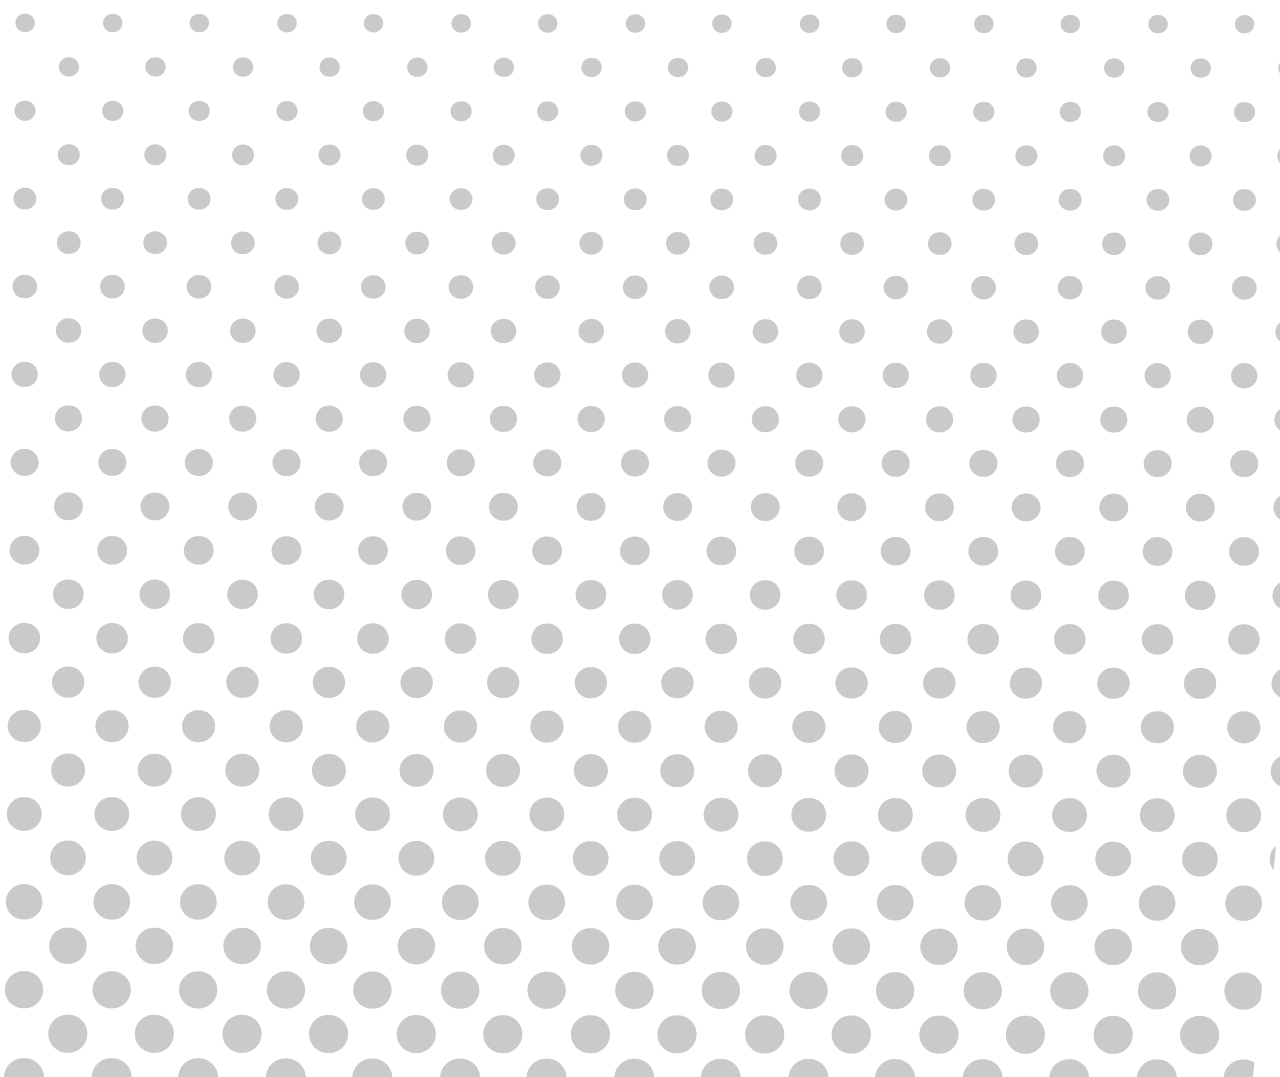
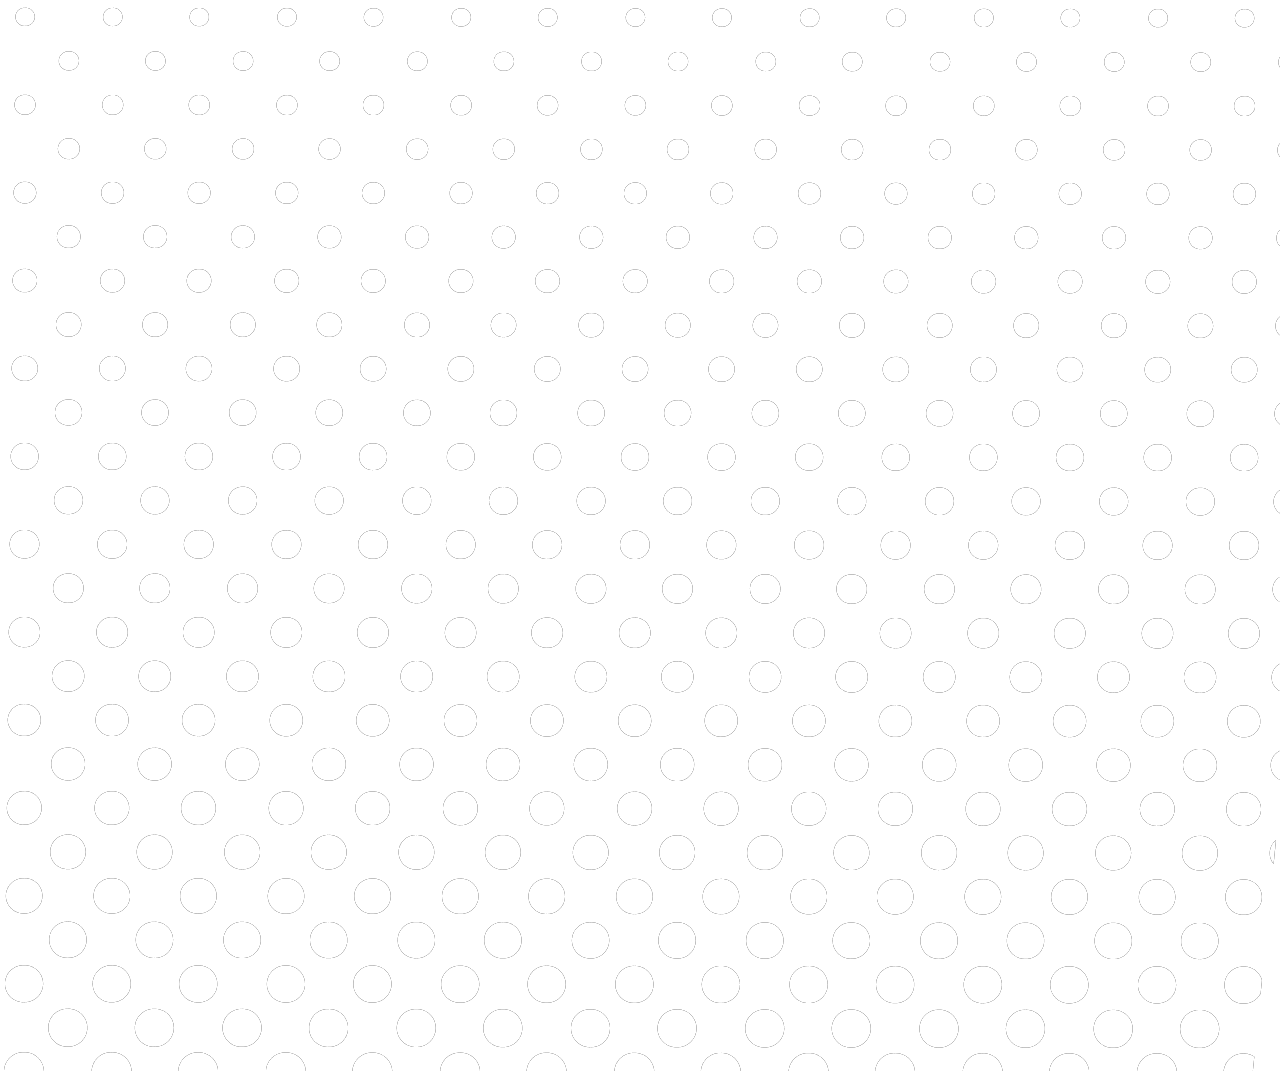
rtyja polkadot adjustment

diff --git a/resources/views/rtyja.blade.php b/resources/views/rtyja.blade.php
@@ -40,7 +40,7 @@
     }
 
     .polkadot {
-      opacity: .5;
+      opacity: .25;
     }
 
     .font-bazinga {
